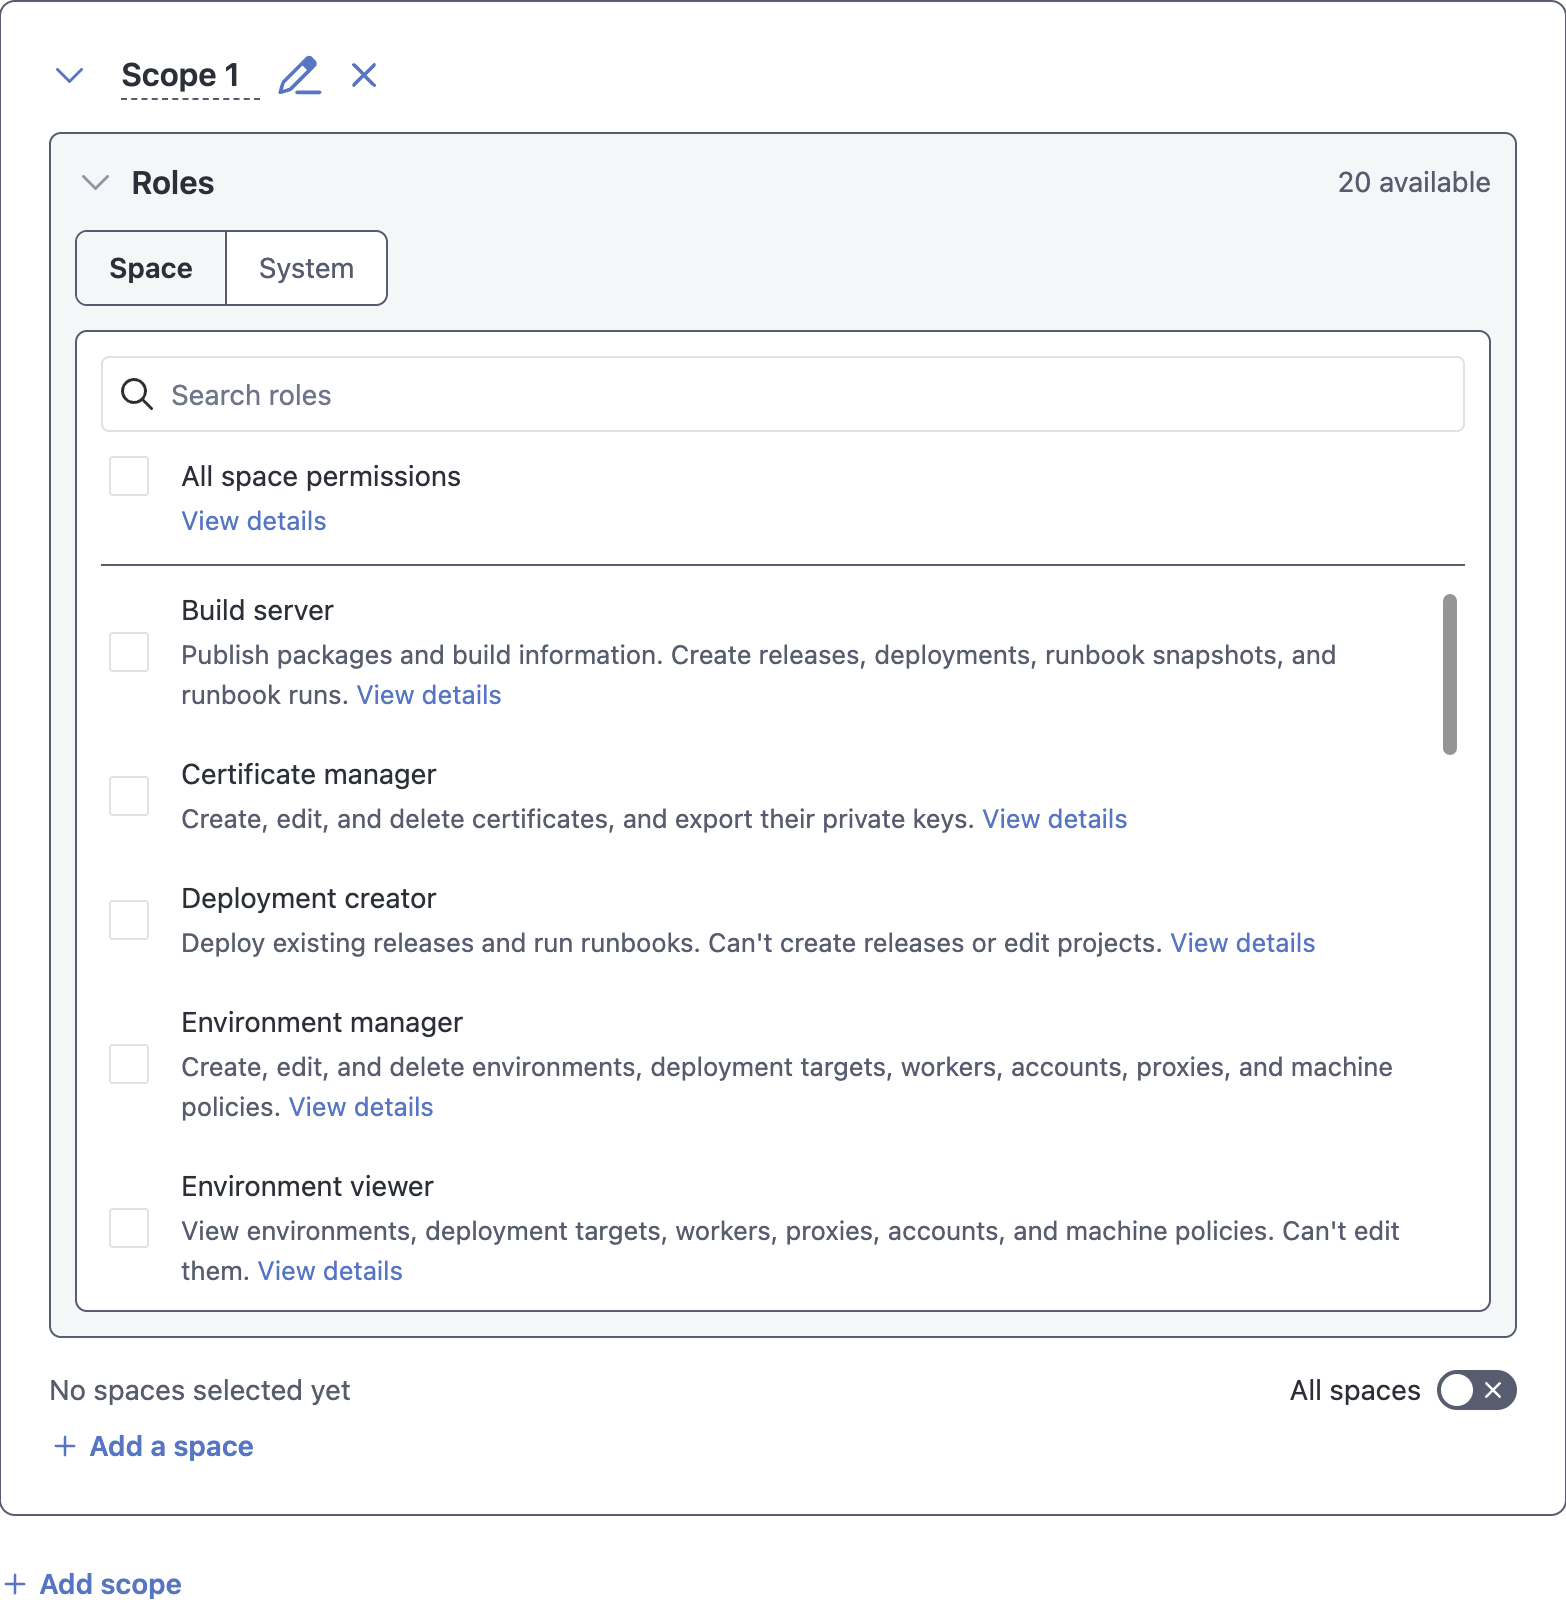
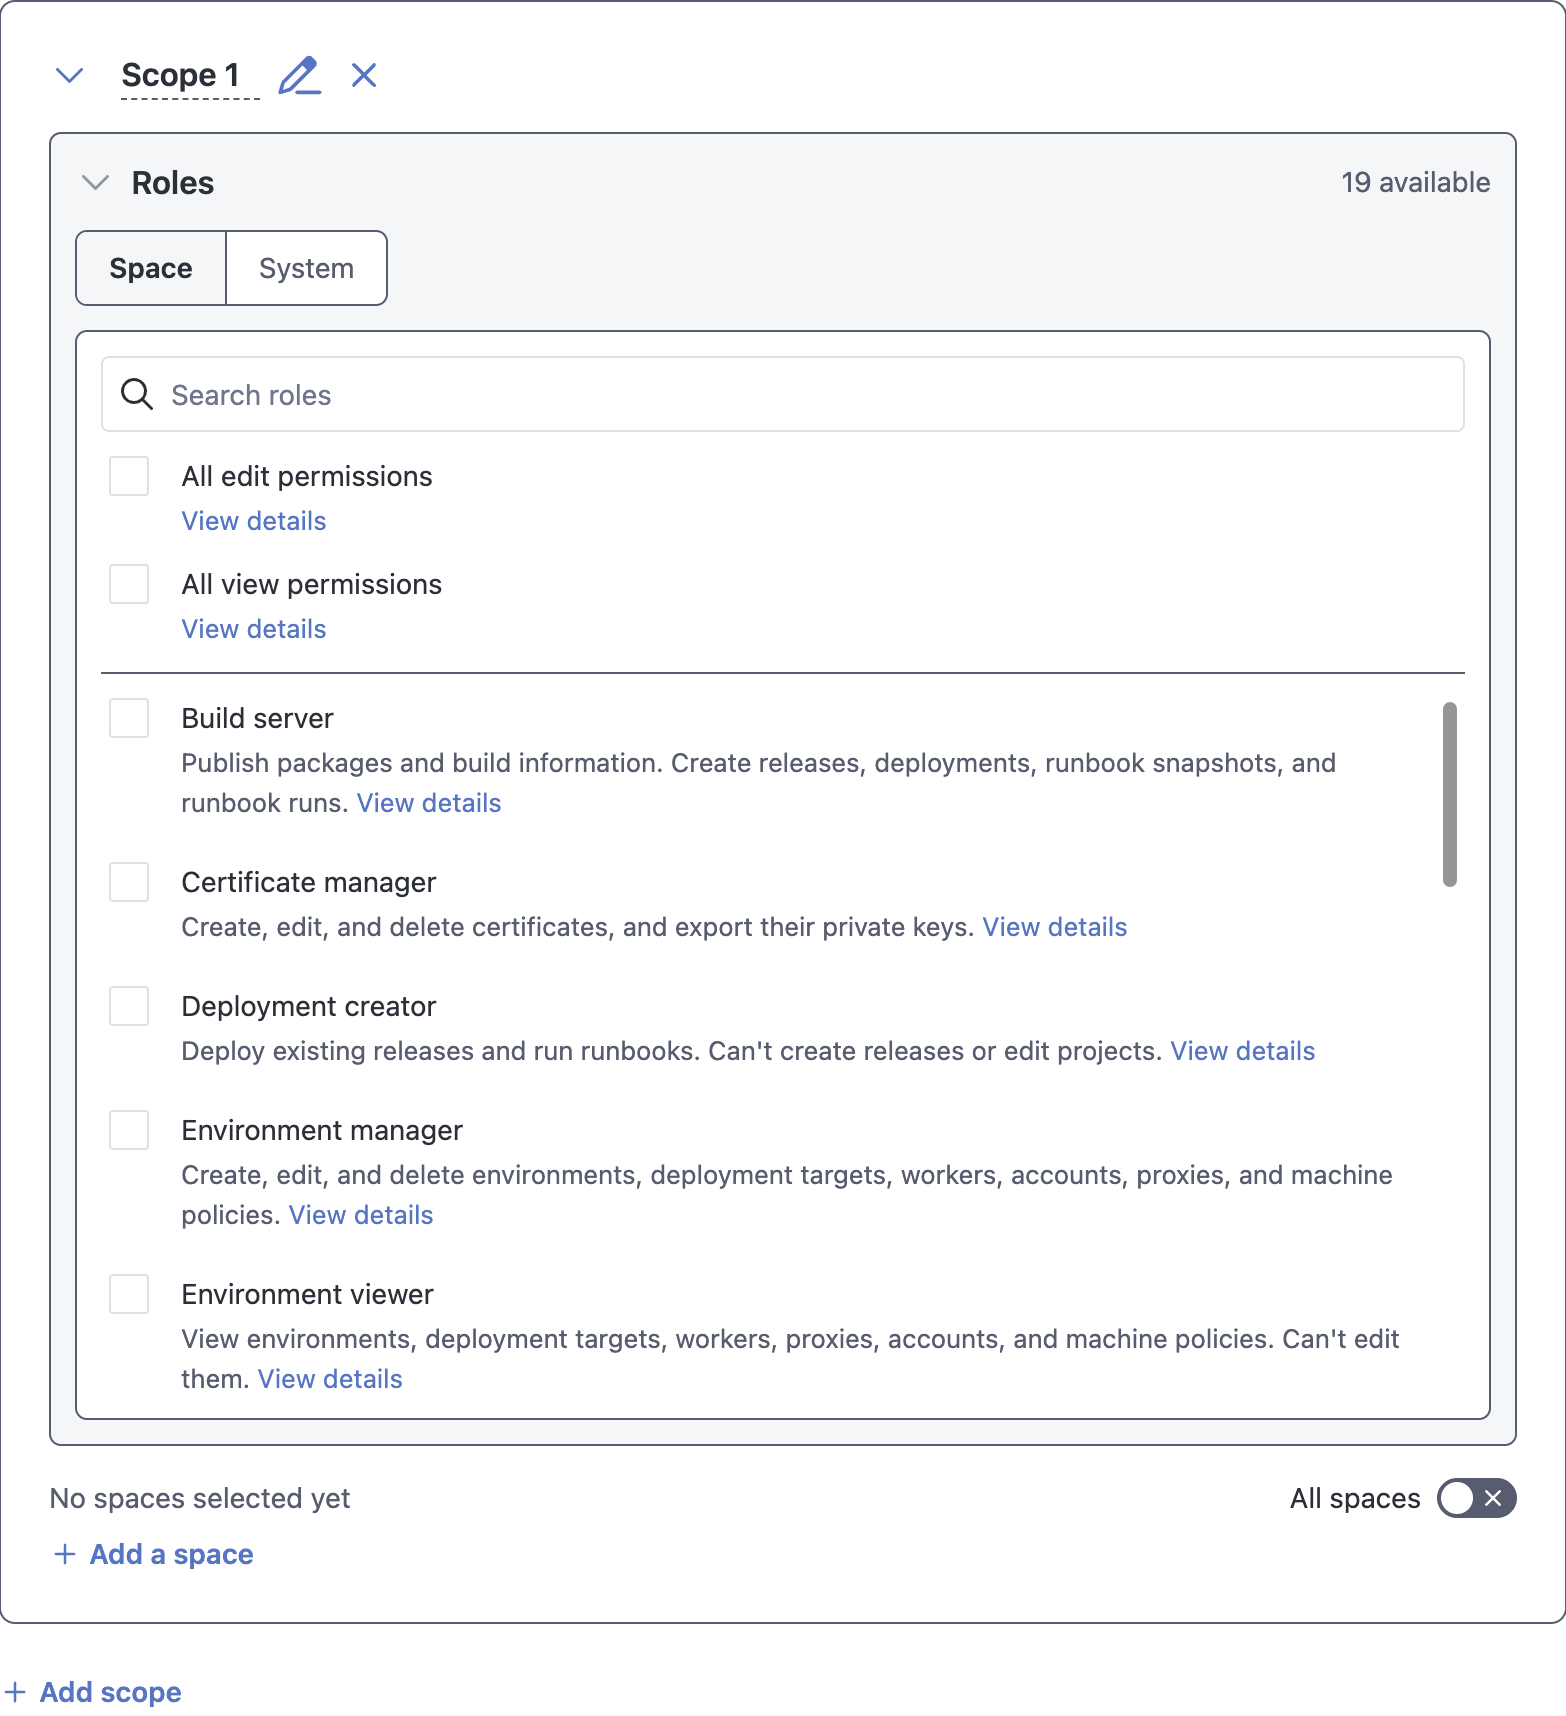
Update All Permissions naming

diff --git a/src/pages/docs/api/authentication/create-an-api-key.md b/src/pages/docs/api/authentication/create-an-api-key.md
@@ -59,7 +59,7 @@ When you choose the **Custom** access level, you can add one or more access scop
 
 - A name. For example, "Read-only access to the corporate website in Development".
 - A role type, either **Space** or **System**. System roles apply across all spaces. An access scope can only contain one type of role, so if your API key needs both types, add a separate access scope for each.
-- One or more spaces for the user roles to apply to. Select **All space permissions** to give the API key the same access to the selected spaces as the user who owns it.
+- One or more spaces for the user roles to apply to. Select **All edit permissions** to give the API key the same access to the selected spaces as the user who owns it, or **All view permissions** to give the API key read-only access to the selected spaces.
 - The projects, environments, or both, that the API key can access in each space.
 
 :::div{.warning}
